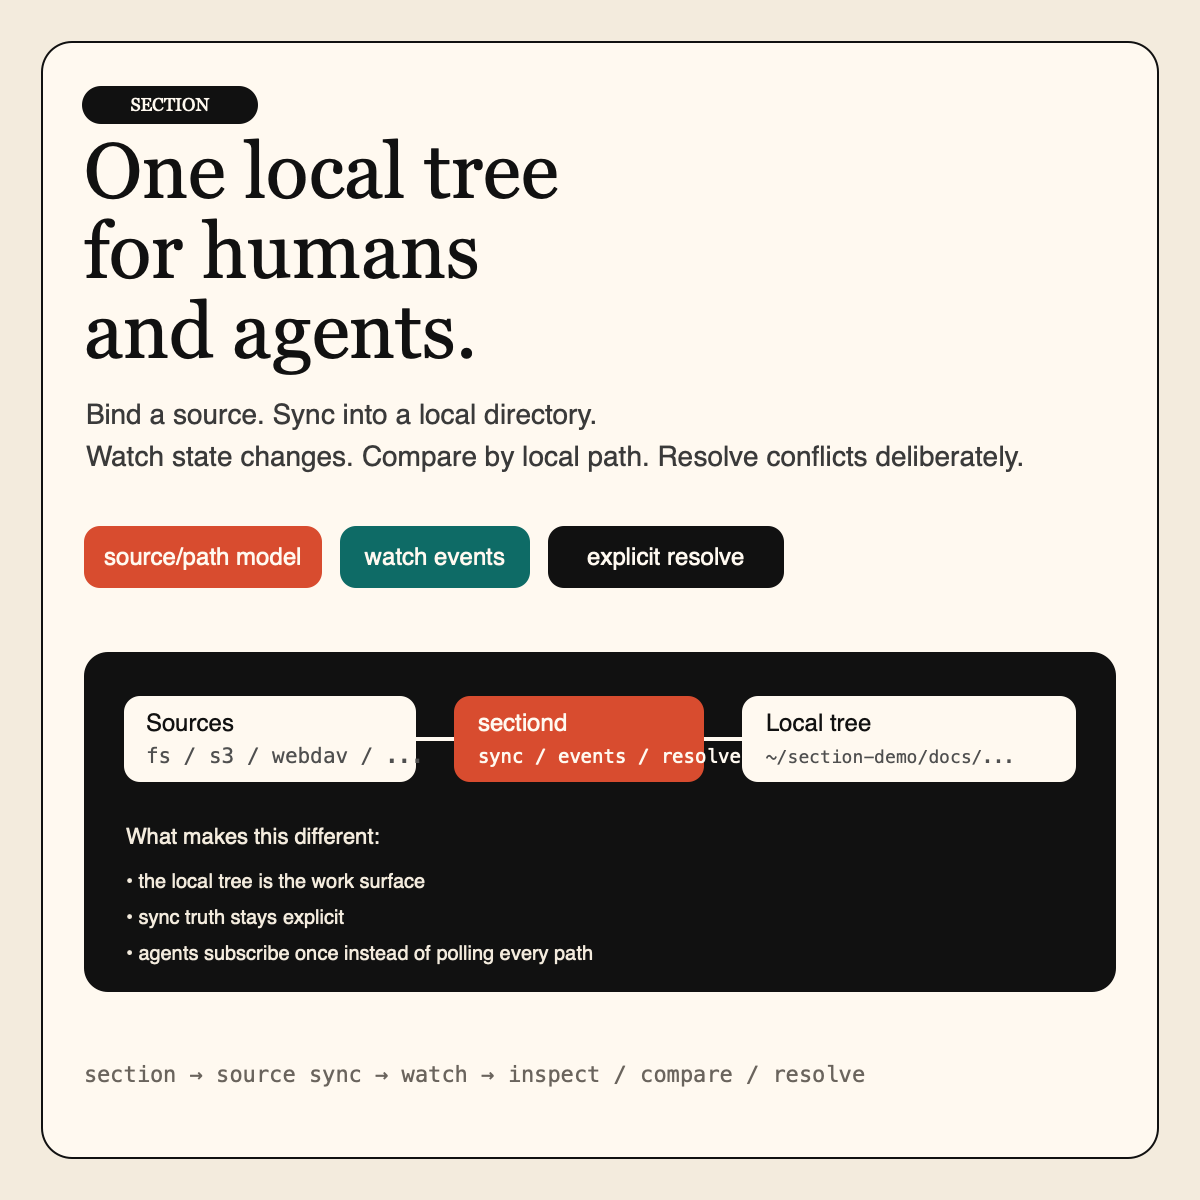
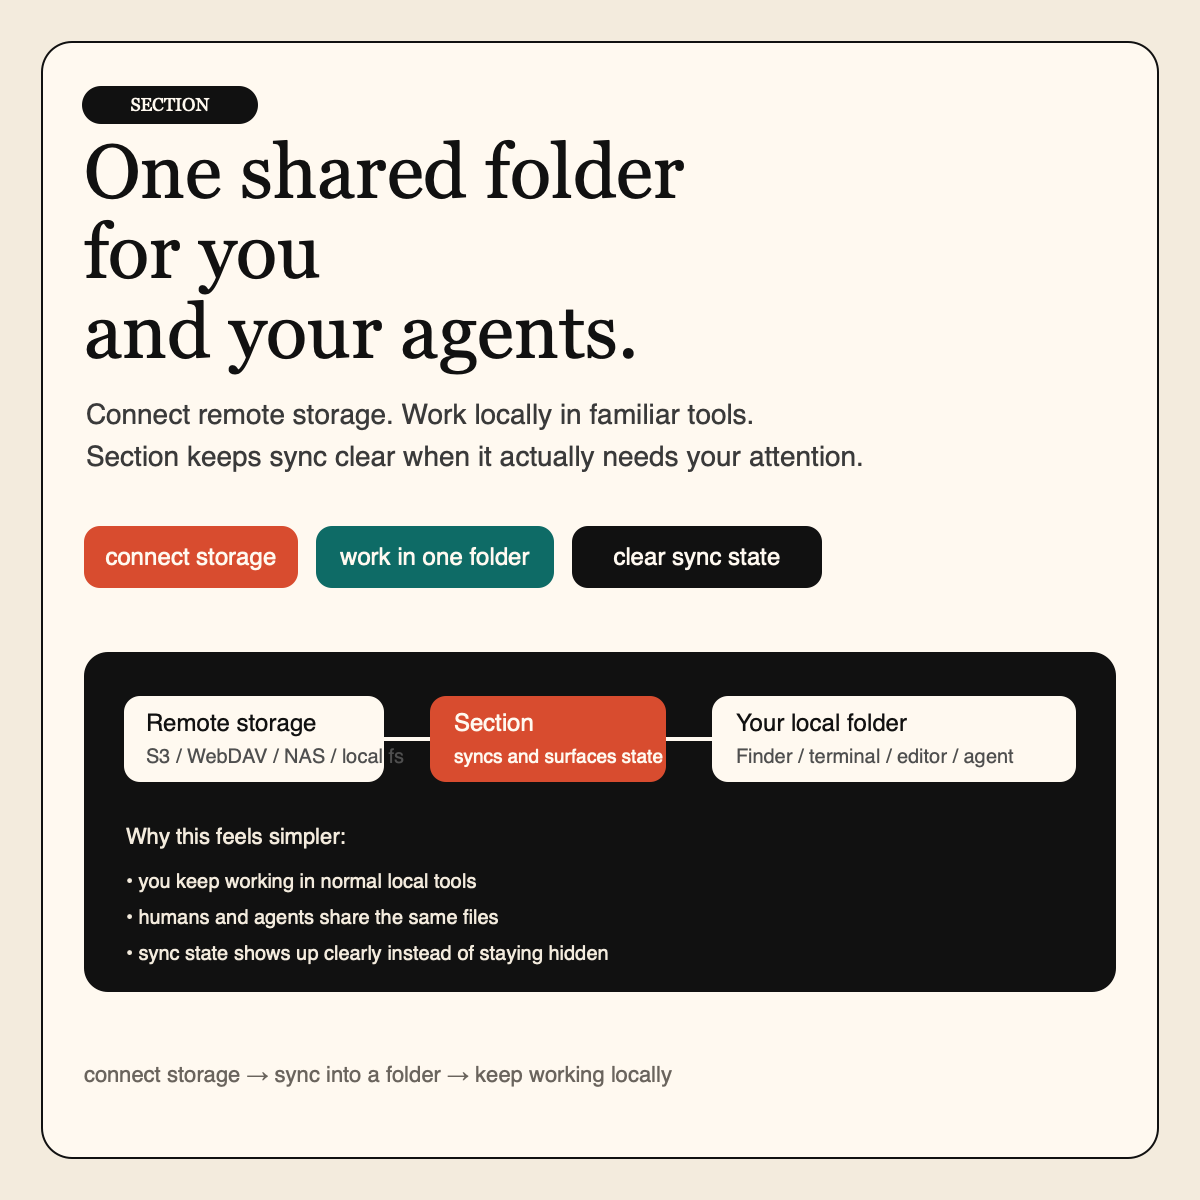
docs: simplify launch card messaging

diff --git a/docs/PROMO.md b/docs/PROMO.md
@@ -4,11 +4,11 @@
 
 ### One-line definition
 
-Section turns remote sources into a shared local working tree for humans and agents.
+Section gives you and your agents one shared local folder backed by remote storage.
 
 ### Short version
 
-Bind a source. Sync it into a local directory. Work there normally. Use the control plane only for sync truth.
+Connect remote storage, work in one local folder, and surface sync truth only when it matters.
 
 ### Who it is for
 
@@ -24,21 +24,21 @@ Most tools make you choose between:
 - mount-first complexity
 - or sync tools that hide state until something goes wrong
 
-Section’s story is simpler:
+Section’s outward story should be simpler:
 
-- keep `source/path` as the model
-- keep the local tree as the work surface
-- keep sync truth explicit
-- keep conflict resolution deliberate
+- connect remote storage
+- work in one familiar local folder
+- keep humans and agents in the same place
+- surface sync issues clearly when they need attention
 
 ## Three Core Messages
 
-1. **One local tree**
-   - humans and agents work against the same local paths
-2. **Truthful sync state**
-   - `ready / syncing / conflict / error` is explicit instead of hidden
-3. **Agent-ready control plane**
-   - `watch`, `inspect`, `compare`, and `resolve` are built for automation
+1. **One shared local folder**
+   - humans and agents work in the same place
+2. **Remote storage without remote-only workflows**
+   - the working surface stays local and familiar
+3. **Clear sync when it matters**
+   - Section surfaces state and conflicts instead of hiding them
 
 ## Landing Page Draft
 
@@ -50,7 +50,7 @@ Headline:
 
 Subheadline:
 
-> Section turns remote sources into a truthful local work surface with explicit sync state, event-driven watch, and deliberate conflict resolution.
+> Connect remote storage, work in one local folder, and keep sync clear for both humans and agents.
 
 Primary CTA:
 
@@ -62,14 +62,14 @@ Secondary CTA:
 
 ### Supporting bullets
 
-- Bind remote sources to local directories
-- Keep daily work in normal local paths
-- Subscribe once to sync events instead of polling
-- Compare and resolve by local path when state matters
+- Connect remote storage to a local folder
+- Keep daily work in Finder, terminal, and editors
+- Let humans and agents work against the same files
+- Surface sync issues clearly instead of hiding them
 
 ### Product blurb
 
-Section is a cross-platform `source/path` sync collaboration layer built on Apache OpenDAL. It is designed for workflows where humans, shells, editors, and agents need to operate on the same local tree without giving up truthful sync visibility.
+Section is a cross-platform collaboration layer that connects remote storage to a shared local folder for humans and agents. It is designed for workflows where daily work should stay local and familiar, while sync state remains explicit when needed.
 
 ## Demo Story
 
